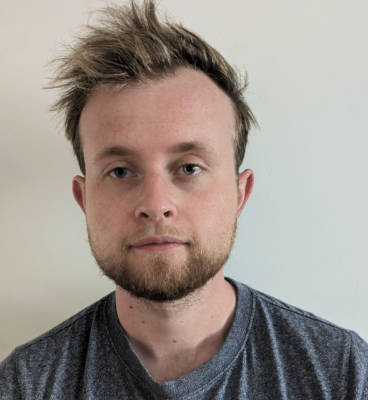
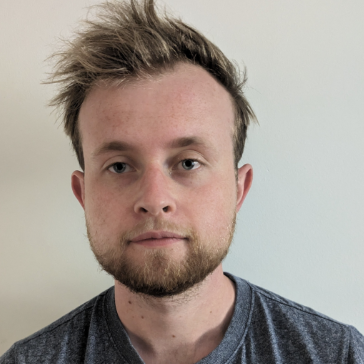
Updates to profiles

Changed region(s): [[0.0, 0.0, 1.0, 1.0]]

diff --git a/_pages/about_sam.md b/_pages/about_sam.md
@@ -1,0 +1,3 @@
+Sam did his undergrad at the University of Nottingham studying natural science. He completed his master’s project, under the supervision of Matt Brookes, which involved using quantum-enabled magnetometers to make measurements of brain activity in order to create a brain-computer interface. He looks to continue his work with quantum metrology here at UCL, doing his PhD under the tutelage of Luke Caldwell.
+
+Outside of academia he is an avid baker, a consumer of terrible reality TV and was previously a dispensing technician at a pharmacy.

diff --git a/_pages/profiles.md b/_pages/profiles.md
@@ -23,7 +23,8 @@ profiles:
     image_circular: false # crops the image to make it circular
   - align: right
     name: Sam Haswell
-    image: prof_pic.jpg
-    content: about_einstein.md
+    email: samuel.haswell.24
+    image: sam-prof-pic.jpg
+    content: about_sam.md
     image_circular: false # crops the image to make it circular
 ---
